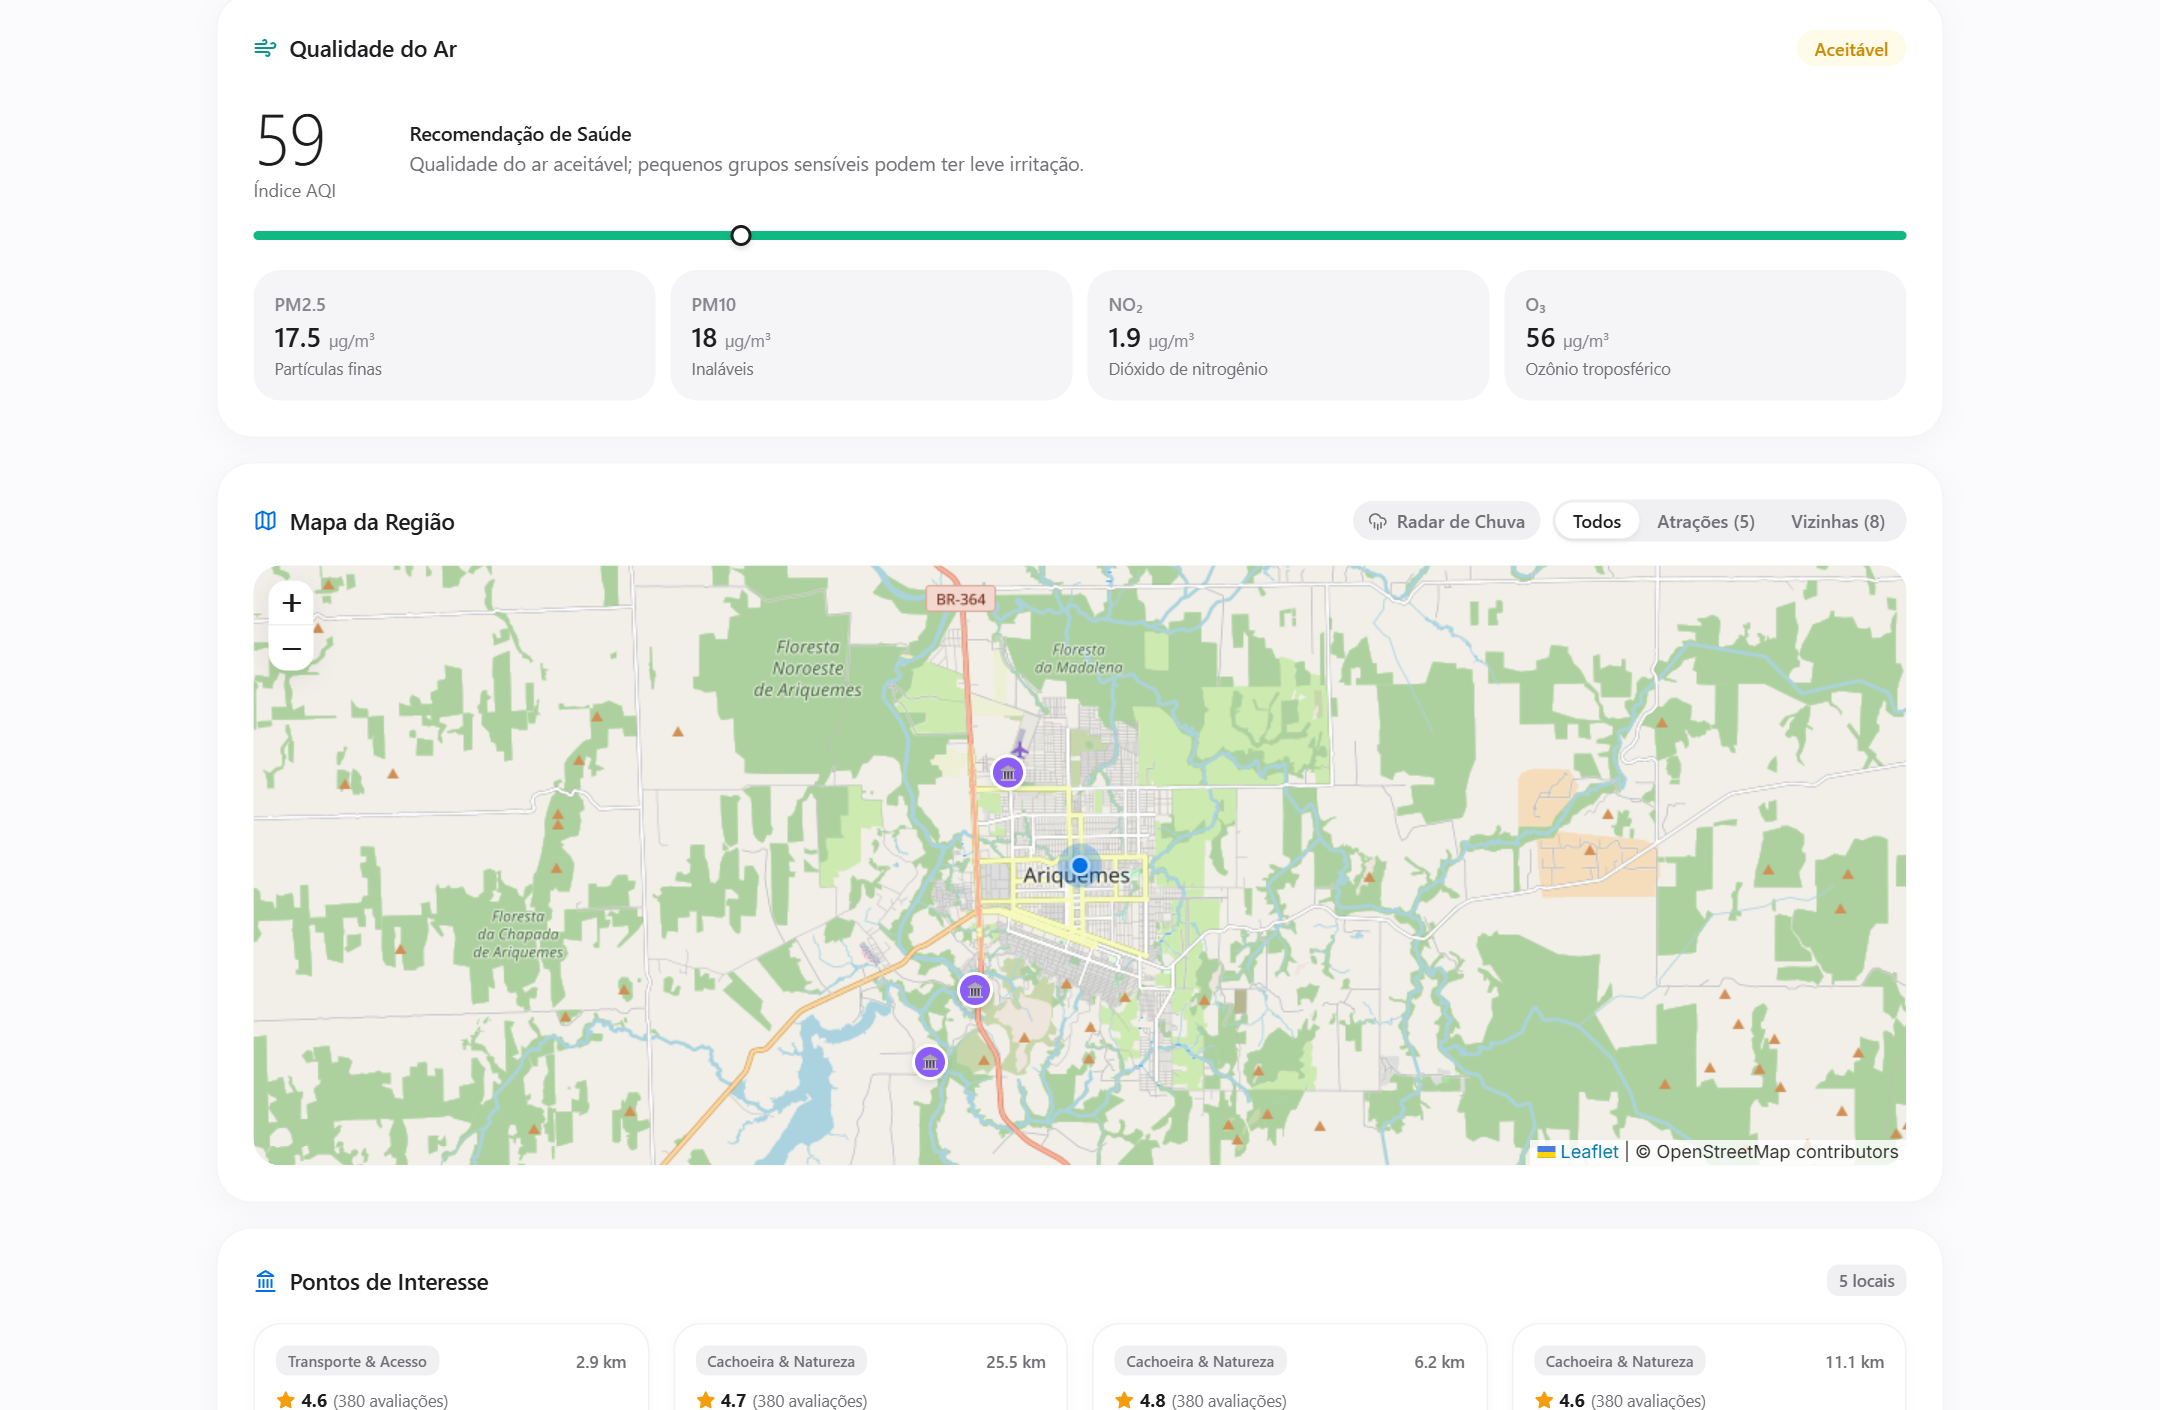
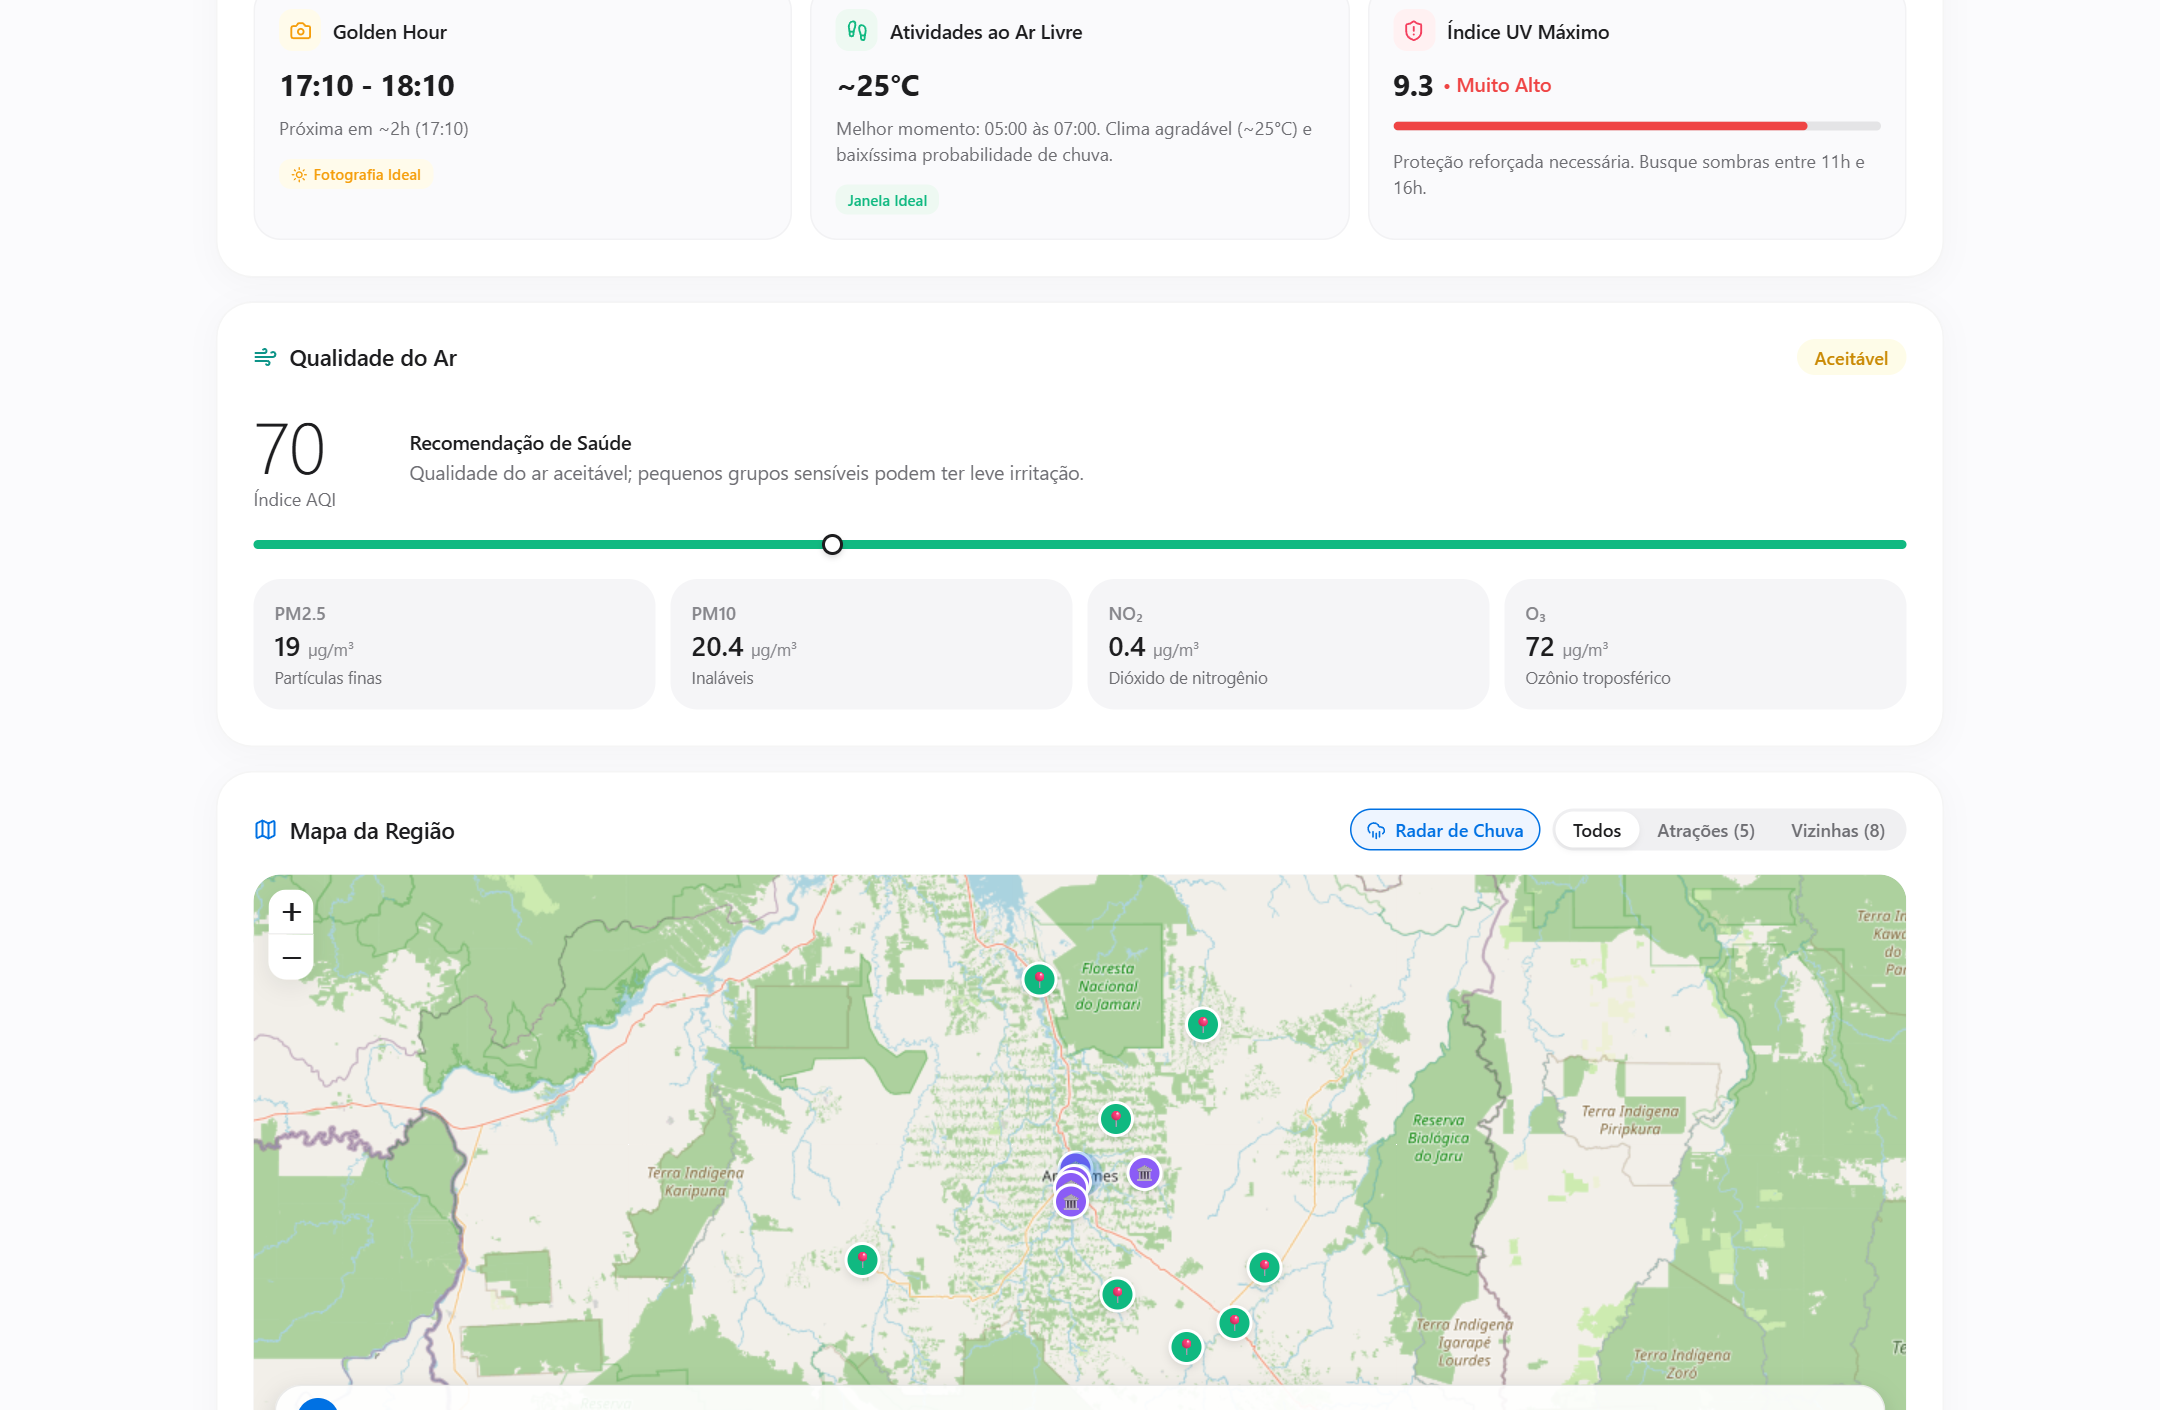
fix(map): add maxNativeZoom to RainViewer radar and implement zero-flicker frame cache

diff --git a/components/InteractiveMap.tsx b/components/InteractiveMap.tsx
@@ -1,6 +1,6 @@
 import React, { useEffect, useRef, useState, useMemo } from 'react';
 import { View, Text, StyleSheet, TouchableOpacity } from 'react-native';
-import { Map, Layers, Landmark, Compass, CloudRain, Play, Pause, Clock } from 'lucide-react';
+import { Map as MapIcon, Layers, Landmark, Compass, CloudRain, Play, Pause, Clock } from 'lucide-react';
 import { City, PointOfInterest, NearbyCity } from '../types';
 
 interface InteractiveMapProps {
@@ -36,7 +36,7 @@ export const InteractiveMap: React.FC<InteractiveMapProps> = ({
   const mapContainerRef = useRef<HTMLDivElement | null>(null);
   const leafletMapRef = useRef<any>(null);
   const markersLayerRef = useRef<any>(null);
-  const radarTileLayerRef = useRef<any>(null);
+  const radarLayersCacheRef = useRef<Record<string, any>>({});
   const radarHostRef = useRef<string>('https://tilecache.rainviewer.com');
 
   const [filter, setFilter] = useState<'all' | 'pois' | 'nearby'>('all');
@@ -126,44 +126,99 @@ export const InteractiveMap: React.FC<InteractiveMapProps> = ({
       }
       leafletMapRef.current = null;
       markersLayerRef.current = null;
-      radarTileLayerRef.current = null;
+      Object.values(radarLayersCacheRef.current).forEach((layer) => {
+        try {
+          if (localMap && localMap.hasLayer(layer)) {
+            localMap.removeLayer(layer);
+          }
+        } catch {}
+      });
+      radarLayersCacheRef.current = {};
     };
   }, []);
 
-  // 3. Add / Update / Remove RainViewer Radar Layer dynamically
+  // 3. Add / Update / Remove RainViewer Radar Layer dynamically with zero-flicker cache & maxNativeZoom: 7
   useEffect(() => {
     if (!isMapReady || !leafletMapRef.current) return;
     const map = leafletMapRef.current;
 
-    const updateRadar = async () => {
-      const L = (await import('leaflet')).default;
-
-      // Always remove previous radar layer first to prevent memory leak & stacking
-      if (radarTileLayerRef.current) {
+    // If radar is NOT active, hide and remove all cached radar layers
+    if (!isRadarActive) {
+      Object.values(radarLayersCacheRef.current).forEach((layer) => {
         try {
-          map.removeLayer(radarTileLayerRef.current);
+          if (map.hasLayer(layer)) {
+            map.removeLayer(layer);
+          }
         } catch (e) {
-          console.warn('Layer removal warning:', e);
+          console.warn('Radar layer cleanup warning:', e);
         }
-        radarTileLayerRef.current = null;
+      });
+      radarLayersCacheRef.current = {};
+      return;
+    }
+
+    if (radarFrames.length === 0) return;
+    const currentFrame = radarFrames[currentFrameIdx];
+    if (!currentFrame) return;
+
+    let isMounted = true;
+
+    const syncRadar = async () => {
+      const L = (await import('leaflet')).default;
+      if (!isMounted || !leafletMapRef.current) return;
+
+      const currentPath = currentFrame.path;
+
+      // 1. Get or create current frame's tile layer
+      let activeLayer = radarLayersCacheRef.current[currentPath];
+      if (!activeLayer) {
+        // Color scheme 2 = Universal Blue (Clean Apple Weather Aesthetic), smooth 1_1
+        const tileUrl = `${radarHostRef.current}${currentPath}/256/{z}/{x}/{y}/2/1_1.png`;
+        activeLayer = L.tileLayer(tileUrl, {
+          tileSize: 256,
+          opacity: 0.72,
+          zIndex: 40,
+          maxNativeZoom: 7, // CRITICAL: RainViewer free API caps native radar at zoom 7. Leaflet upscales smoothly to zoom 19!
+          maxZoom: 19,
+        });
+        radarLayersCacheRef.current[currentPath] = activeLayer;
+        activeLayer.addTo(map);
+      } else {
+        activeLayer.setOpacity(0.72);
+        if (!map.hasLayer(activeLayer)) {
+          activeLayer.addTo(map);
+        }
       }
 
-      if (isRadarActive && radarFrames.length > 0) {
-        const frame = radarFrames[currentFrameIdx];
-        if (frame) {
-          // Color scheme 2 = Universal Blue (Clean Apple Weather Aesthetic), smooth 1_1
-          const tileUrl = `${radarHostRef.current}${frame.path}/256/{z}/{x}/{y}/2/1_1.png`;
-          const layer = L.tileLayer(tileUrl, {
-            opacity: 0.72,
-            zIndex: 40,
-          });
-          layer.addTo(map);
-          radarTileLayerRef.current = layer;
+      // 2. Hide all other frames (kept in memory so subsequent loops have 0ms network latency and zero flickering)
+      Object.entries(radarLayersCacheRef.current).forEach(([path, layer]) => {
+        if (path !== currentPath) {
+          layer.setOpacity(0);
         }
+      });
+
+      // 3. Preload the next frame's tile layer in the background
+      const nextIdx = (currentFrameIdx + 1) % radarFrames.length;
+      const nextFrame = radarFrames[nextIdx];
+      if (nextFrame && !radarLayersCacheRef.current[nextFrame.path]) {
+        const nextTileUrl = `${radarHostRef.current}${nextFrame.path}/256/{z}/{x}/{y}/2/1_1.png`;
+        const nextLayer = L.tileLayer(nextTileUrl, {
+          tileSize: 256,
+          opacity: 0,
+          zIndex: 39,
+          maxNativeZoom: 7,
+          maxZoom: 19,
+        });
+        radarLayersCacheRef.current[nextFrame.path] = nextLayer;
+        nextLayer.addTo(map);
       }
     };
 
-    updateRadar();
+    syncRadar();
+
+    return () => {
+      isMounted = false;
+    };
   }, [isMapReady, isRadarActive, currentFrameIdx, radarFrames]);
 
   // 4. Play / Pause Radar Loop Animation
@@ -327,7 +382,7 @@ export const InteractiveMap: React.FC<InteractiveMapProps> = ({
         {/* Header with Segmented Filter Control & Radar Toggle */}
         <View style={styles.headerRow}>
           <View style={styles.titleWrap}>
-            <Map size={16} color={isDark ? '#64b5f6' : '#0071e3'} />
+            <MapIcon size={16} color={isDark ? '#64b5f6' : '#0071e3'} />
             <Text style={[styles.cardTitle, isDark ? styles.textPrimaryDark : styles.textPrimaryLight]}>
               Mapa da Região
             </Text>
@@ -343,12 +398,22 @@ export const InteractiveMap: React.FC<InteractiveMapProps> = ({
                   ? (isDark ? styles.radarActiveDark : styles.radarActiveLight)
                   : (isDark ? styles.radarInactiveDark : styles.radarInactiveLight),
               ]}
-              onPress={() => {
-                setIsRadarActive((prev) => !prev);
-                if (!isRadarActive) {
+                            onPress={() => {
+                const nextActive = !isRadarActive;
+                setIsRadarActive(nextActive);
+                if (nextActive) {
                   setIsPlayingRadar(true);
+                  // If map is at street level (zoom > 9), smoothly zoom out to regional view (zoom 8)
+                  // so the rain clouds across the territory are immediately visible
+                  if (leafletMapRef.current && leafletMapRef.current.getZoom() > 9) {
+                    leafletMapRef.current.setZoom(8, { animate: true });
+                  }
                 } else {
                   setIsPlayingRadar(false);
+                  // Restore city view (zoom 12)
+                  if (leafletMapRef.current && leafletMapRef.current.getZoom() < 12) {
+                    leafletMapRef.current.setZoom(12, { animate: true });
+                  }
                 }
               }}
               activeOpacity={0.75}
